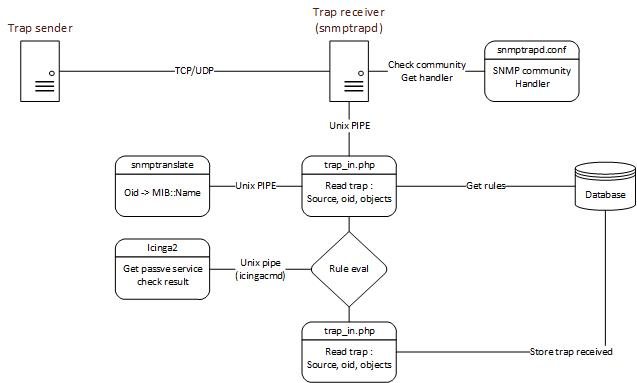
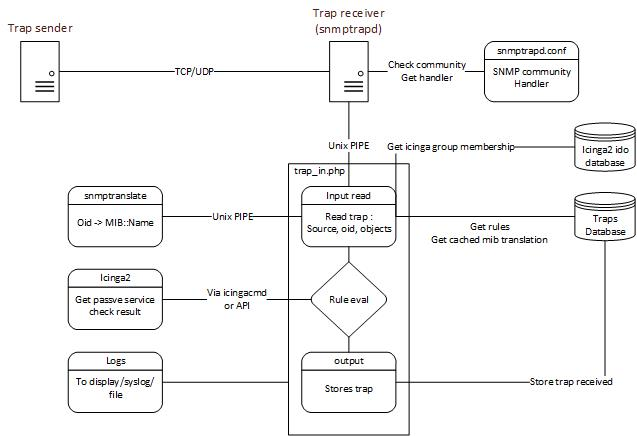
update receiver log doc & schema

Changed region(s): [[0.0298, 0.0, 1.0, 1.0], [0.0, 0.0574, 0.1193, 0.1149], [0.2983, 0.5457, 0.3281, 0.5744]]

diff --git a/docs/20-receiver-logic.md b/docs/20-receiver-logic.md
@@ -16,12 +16,23 @@ A trap is sent to snmptrapd, it will
 * check snmp community or v3 user : snmptrapd will drop trap with wrong community/user
 * send to defined handler as input :
 
+```
 UDP: [127.0.0.1]:33025->[127.0.0.1]:162
 .1.3.6.1.2.1.1.3.0 0:0:00:00.00
 .1.3.6.1.6.3.1.1.4.1.0 .1.3.6.1.6.3.1.1.5.4
 .1.3.6.1.2.1.1.6.0 Just here
 .1.3.6.1.2.1.2.2.1.7 1
-.1.3.6.1.2.1.2.2.1.8 2
+.1.3.6.1.2.1.2.2.1.8 1
+```
+
+translated, this trap is : 
+```
+sysUpTimeInstance	0:0:00:00.00
+snmpTrapOID.0		IF-MIB::linkUp
+sysLocation.0		Just here
+ifAdminStatus		up(1)
+ifOperStatus		up(1)
+```
 
 Here UDP from localhost to localhost
 Following lines are traps objects, including the trap oid (here .1.3.6.1.6.3.1.1.5.4)
@@ -38,11 +49,15 @@ Extracts trap oid and stores objects (OID/value)
 Evaluate all rules one by one.
 If a rule is empty, it will always be true : the "on match" action will by executed
 
-If action is other than 'do nothing' or 'ignore' then send passive service check to icingacmd
+If action is other than 'do nothing' or 'ignore' then send passive service check either
+
+* to icingacmd
 example : "[1547221876] PROCESS_SERVICE_CHECK_RESULT;Icinga host;LinkTrapStatus;2;Trap linkUp received at 0:0:00:00.00 from Just here" > /var/run/icinga2/cmd/icinga2.cmd
+
+* using icinga2 API
 
 3) stores trap with status (except if action is 'ignore')
 - done : rule was found , whether or not it matches or action has been made
 - unknown : no sourceIP/OID rule was found
 - error : ....
-- waiting : trap was received but rules where not searched (for future use)
+- waiting : trap was received but rules where not searched/evaluated (for future use with distributed environments)
